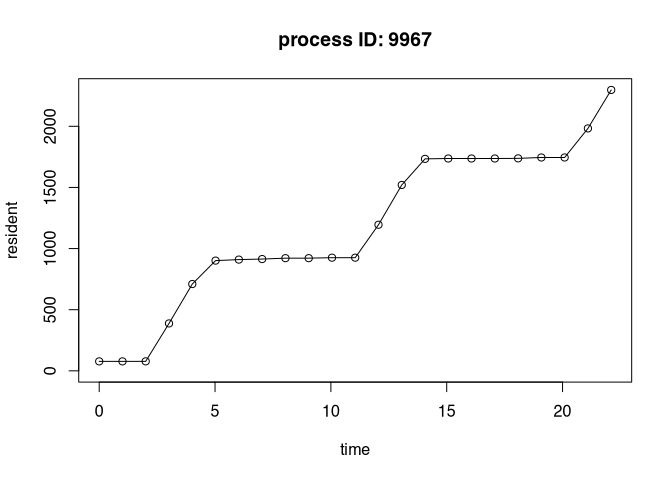
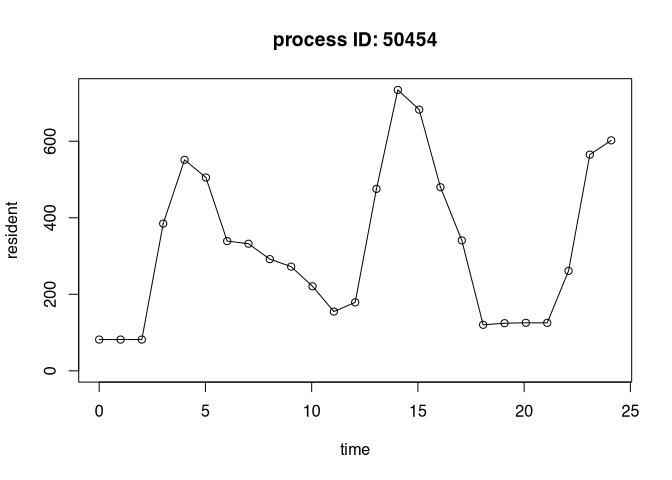
suppress CRAN url check

diff --git a/README.md b/README.md
@@ -103,31 +103,33 @@ When we read in the log file, we see messages from both R and the
 
 ``` r
 writeLines(readLines(log_file))
-#> __AUTOMETRIC__|0.0.5.9001|9967|my_worker|0|1729522150.260|1.000|0.100|77496320|420432527360|warmup|__AUTOMETRIC__
-#> __AUTOMETRIC__|0.0.5.9001|9967|my_worker|0|1729522151.265|0.000|0.000|77496320|420432527360|warmup|__AUTOMETRIC__
+#> __AUTOMETRIC__|0.1.0|50454|my_worker|0|1730312985.355|0.800|0.080|81707008|420736614400|warmup|__AUTOMETRIC__
+#> __AUTOMETRIC__|0.1.0|50454|my_worker|0|1730312986.360|0.000|0.000|81707008|420736614400|warmup|__AUTOMETRIC__
 #> [1] "You can mix printed messages with regular log data."
 #> [1] "Defining a function that guzzles CPU power."
-#> __AUTOMETRIC__|0.0.5.9001|9967|my_worker|0|1729522152.267|0.000|0.000|77676544|420441964544|large object|__AUTOMETRIC__
-#> __AUTOMETRIC__|0.0.5.9001|9967|my_worker|0|1729522153.273|98.400|9.840|387760128|421250383872|large object|__AUTOMETRIC__
-#> __AUTOMETRIC__|0.0.5.9001|9967|my_worker|0|1729522154.278|100.000|10.000|709951488|421250383872|large object|__AUTOMETRIC__
-#> __AUTOMETRIC__|0.0.5.9001|9967|my_worker|0|1729522155.283|100.000|10.000|901480448|421267161088|heavy cpu|__AUTOMETRIC__
-#> __AUTOMETRIC__|0.0.5.9001|9967|my_worker|0|1729522156.288|99.000|9.900|909869056|421267161088|heavy cpu|__AUTOMETRIC__
-#> __AUTOMETRIC__|0.0.5.9001|9967|my_worker|0|1729522157.293|100.000|10.000|914243584|421267161088|heavy cpu|__AUTOMETRIC__
-#> __AUTOMETRIC__|0.0.5.9001|9967|my_worker|0|1729522158.299|99.400|9.940|921550848|421267161088|heavy cpu|__AUTOMETRIC__
-#> __AUTOMETRIC__|0.0.5.9001|9967|my_worker|0|1729522159.304|100.000|10.000|921550848|421267161088|heavy cpu|__AUTOMETRIC__
-#> __AUTOMETRIC__|0.0.5.9001|9967|my_worker|0|1729522160.309|98.800|9.880|925564928|421267161088|heavy cpu|__AUTOMETRIC__
-#> __AUTOMETRIC__|0.0.5.9001|9967|my_worker|0|1729522161.310|100.000|10.000|925597696|421267161088|heavy cpu|__AUTOMETRIC__
-#> __AUTOMETRIC__|0.0.5.9001|9967|my_worker|0|1729522162.315|100.000|10.000|1194868736|422067175424|another object|__AUTOMETRIC__
-#> __AUTOMETRIC__|0.0.5.9001|9967|my_worker|0|1729522163.320|100.000|10.000|1520173056|422067175424|another object|__AUTOMETRIC__
-#> __AUTOMETRIC__|0.0.5.9001|9967|my_worker|0|1729522164.325|99.200|9.920|1733591040|422067175424|more cpu|__AUTOMETRIC__
-#> __AUTOMETRIC__|0.0.5.9001|9967|my_worker|0|1729522165.326|99.500|9.950|1736572928|422067175424|more cpu|__AUTOMETRIC__
-#> __AUTOMETRIC__|0.0.5.9001|9967|my_worker|0|1729522166.331|98.900|9.890|1736572928|422067175424|more cpu|__AUTOMETRIC__
-#> __AUTOMETRIC__|0.0.5.9001|9967|my_worker|0|1729522167.337|99.100|9.910|1736589312|422067175424|more cpu|__AUTOMETRIC__
-#> __AUTOMETRIC__|0.0.5.9001|9967|my_worker|0|1729522168.342|100.000|10.000|1737736192|422075564032|more cpu|__AUTOMETRIC__
-#> __AUTOMETRIC__|0.0.5.9001|9967|my_worker|0|1729522169.345|99.000|9.900|1744994304|422075564032|more cpu|__AUTOMETRIC__
-#> __AUTOMETRIC__|0.0.5.9001|9967|my_worker|0|1729522170.350|98.800|9.880|1744994304|422075564032|more cpu|__AUTOMETRIC__
-#> __AUTOMETRIC__|0.0.5.9001|9967|my_worker|0|1729522171.355|99.600|9.960|1982660608|422875578368|third object|__AUTOMETRIC__
-#> __AUTOMETRIC__|0.0.5.9001|9967|my_worker|0|1729522172.360|98.300|9.830|2297184256|422875578368|third object|__AUTOMETRIC__
+#> __AUTOMETRIC__|0.1.0|50454|my_worker|0|1730312987.361|0.000|0.000|81788928|420745003008|large object|__AUTOMETRIC__
+#> __AUTOMETRIC__|0.1.0|50454|my_worker|0|1730312988.367|98.200|9.820|384761856|421545033728|large object|__AUTOMETRIC__
+#> __AUTOMETRIC__|0.1.0|50454|my_worker|0|1730312989.372|99.300|9.930|551337984|421545033728|large object|__AUTOMETRIC__
+#> __AUTOMETRIC__|0.1.0|50454|my_worker|0|1730312990.377|99.100|9.910|505069568|421553422336|heavy cpu|__AUTOMETRIC__
+#> __AUTOMETRIC__|0.1.0|50454|my_worker|0|1730312991.378|100.000|10.000|339132416|421561810944|heavy cpu|__AUTOMETRIC__
+#> __AUTOMETRIC__|0.1.0|50454|my_worker|0|1730312992.380|99.300|9.930|332136448|421561810944|heavy cpu|__AUTOMETRIC__
+#> __AUTOMETRIC__|0.1.0|50454|my_worker|0|1730312993.385|100.000|10.000|291848192|421561810944|heavy cpu|__AUTOMETRIC__
+#> __AUTOMETRIC__|0.1.0|50454|my_worker|0|1730312994.390|100.000|10.000|272302080|421561810944|heavy cpu|__AUTOMETRIC__
+#> __AUTOMETRIC__|0.1.0|50454|my_worker|0|1730312995.395|100.000|10.000|221003776|421561810944|heavy cpu|__AUTOMETRIC__
+#> __AUTOMETRIC__|0.1.0|50454|my_worker|0|1730312996.400|100.000|10.000|154877952|421561810944|heavy cpu|__AUTOMETRIC__
+#> __AUTOMETRIC__|0.1.0|50454|my_worker|0|1730312997.403|99.200|9.920|178995200|422361825280|another object|__AUTOMETRIC__
+#> __AUTOMETRIC__|0.1.0|50454|my_worker|0|1730312998.405|100.000|10.000|475480064|422361825280|another object|__AUTOMETRIC__
+#> __AUTOMETRIC__|0.1.0|50454|my_worker|0|1730312999.410|99.500|9.950|733970432|422361825280|another object|__AUTOMETRIC__
+#> __AUTOMETRIC__|0.1.0|50454|my_worker|0|1730313000.415|98.000|9.800|682590208|422361825280|more cpu|__AUTOMETRIC__
+#> __AUTOMETRIC__|0.1.0|50454|my_worker|0|1730313001.416|100.000|10.000|479789056|422361825280|more cpu|__AUTOMETRIC__
+#> __AUTOMETRIC__|0.1.0|50454|my_worker|0|1730313002.421|99.600|9.960|340885504|422361825280|more cpu|__AUTOMETRIC__
+#> __AUTOMETRIC__|0.1.0|50454|my_worker|0|1730313003.426|100.000|10.000|120291328|422361825280|more cpu|__AUTOMETRIC__
+#> __AUTOMETRIC__|0.1.0|50454|my_worker|0|1730313004.432|99.700|9.970|124502016|422361825280|more cpu|__AUTOMETRIC__
+#> __AUTOMETRIC__|0.1.0|50454|my_worker|0|1730313005.437|98.200|9.820|125583360|422361825280|more cpu|__AUTOMETRIC__
+#> __AUTOMETRIC__|0.1.0|50454|my_worker|0|1730313006.442|99.700|9.970|125386752|422361825280|more cpu|__AUTOMETRIC__
+#> __AUTOMETRIC__|0.1.0|50454|my_worker|0|1730313007.444|98.200|9.820|261177344|423161839616|third object|__AUTOMETRIC__
+#> __AUTOMETRIC__|0.1.0|50454|my_worker|0|1730313008.447|99.500|9.950|564985856|423161839616|third object|__AUTOMETRIC__
+#> __AUTOMETRIC__|0.1.0|50454|my_worker|0|1730313009.452|100.000|10.000|602243072|423161839616|third object|__AUTOMETRIC__
 ```
 
 `autometric` knows how to read its log entries even if the log file has
@@ -139,54 +141,58 @@ library(autometric)
 log_data <- log_read(log_file)
 
 log_data
-#>       version          phase  pid      name status   time  core   cpu
-#> 1  0.0.5.9001         warmup 9967 my_worker      0  0.000   1.0  0.10
-#> 2  0.0.5.9001         warmup 9967 my_worker      0  1.005   0.0  0.00
-#> 3  0.0.5.9001   large object 9967 my_worker      0  2.007   0.0  0.00
-#> 4  0.0.5.9001   large object 9967 my_worker      0  3.013  98.4  9.84
-#> 5  0.0.5.9001   large object 9967 my_worker      0  4.018 100.0 10.00
-#> 6  0.0.5.9001      heavy cpu 9967 my_worker      0  5.023 100.0 10.00
-#> 7  0.0.5.9001      heavy cpu 9967 my_worker      0  6.028  99.0  9.90
-#> 8  0.0.5.9001      heavy cpu 9967 my_worker      0  7.033 100.0 10.00
-#> 9  0.0.5.9001      heavy cpu 9967 my_worker      0  8.039  99.4  9.94
-#> 10 0.0.5.9001      heavy cpu 9967 my_worker      0  9.044 100.0 10.00
-#> 11 0.0.5.9001      heavy cpu 9967 my_worker      0 10.049  98.8  9.88
-#> 12 0.0.5.9001      heavy cpu 9967 my_worker      0 11.050 100.0 10.00
-#> 13 0.0.5.9001 another object 9967 my_worker      0 12.055 100.0 10.00
-#> 14 0.0.5.9001 another object 9967 my_worker      0 13.060 100.0 10.00
-#> 15 0.0.5.9001       more cpu 9967 my_worker      0 14.065  99.2  9.92
-#> 16 0.0.5.9001       more cpu 9967 my_worker      0 15.066  99.5  9.95
-#> 17 0.0.5.9001       more cpu 9967 my_worker      0 16.071  98.9  9.89
-#> 18 0.0.5.9001       more cpu 9967 my_worker      0 17.077  99.1  9.91
-#> 19 0.0.5.9001       more cpu 9967 my_worker      0 18.082 100.0 10.00
-#> 20 0.0.5.9001       more cpu 9967 my_worker      0 19.085  99.0  9.90
-#> 21 0.0.5.9001       more cpu 9967 my_worker      0 20.090  98.8  9.88
-#> 22 0.0.5.9001   third object 9967 my_worker      0 21.095  99.6  9.96
-#> 23 0.0.5.9001   third object 9967 my_worker      0 22.100  98.3  9.83
-#>      resident  virtual
-#> 1    77.49632 420432.5
-#> 2    77.49632 420432.5
-#> 3    77.67654 420442.0
-#> 4   387.76013 421250.4
-#> 5   709.95149 421250.4
-#> 6   901.48045 421267.2
-#> 7   909.86906 421267.2
-#> 8   914.24358 421267.2
-#> 9   921.55085 421267.2
-#> 10  921.55085 421267.2
-#> 11  925.56493 421267.2
-#> 12  925.59770 421267.2
-#> 13 1194.86874 422067.2
-#> 14 1520.17306 422067.2
-#> 15 1733.59104 422067.2
-#> 16 1736.57293 422067.2
-#> 17 1736.57293 422067.2
-#> 18 1736.58931 422067.2
-#> 19 1737.73619 422075.6
-#> 20 1744.99430 422075.6
-#> 21 1744.99430 422075.6
-#> 22 1982.66061 422875.6
-#> 23 2297.18426 422875.6
+#>    version          phase   pid      name status   time  core   cpu  resident
+#> 1    0.1.0         warmup 50454 my_worker      0  0.000   0.8  0.08  81.70701
+#> 2    0.1.0         warmup 50454 my_worker      0  1.005   0.0  0.00  81.70701
+#> 3    0.1.0   large object 50454 my_worker      0  2.006   0.0  0.00  81.78893
+#> 4    0.1.0   large object 50454 my_worker      0  3.012  98.2  9.82 384.76186
+#> 5    0.1.0   large object 50454 my_worker      0  4.017  99.3  9.93 551.33798
+#> 6    0.1.0      heavy cpu 50454 my_worker      0  5.022  99.1  9.91 505.06957
+#> 7    0.1.0      heavy cpu 50454 my_worker      0  6.023 100.0 10.00 339.13242
+#> 8    0.1.0      heavy cpu 50454 my_worker      0  7.025  99.3  9.93 332.13645
+#> 9    0.1.0      heavy cpu 50454 my_worker      0  8.030 100.0 10.00 291.84819
+#> 10   0.1.0      heavy cpu 50454 my_worker      0  9.035 100.0 10.00 272.30208
+#> 11   0.1.0      heavy cpu 50454 my_worker      0 10.040 100.0 10.00 221.00378
+#> 12   0.1.0      heavy cpu 50454 my_worker      0 11.045 100.0 10.00 154.87795
+#> 13   0.1.0 another object 50454 my_worker      0 12.048  99.2  9.92 178.99520
+#> 14   0.1.0 another object 50454 my_worker      0 13.050 100.0 10.00 475.48006
+#> 15   0.1.0 another object 50454 my_worker      0 14.055  99.5  9.95 733.97043
+#> 16   0.1.0       more cpu 50454 my_worker      0 15.060  98.0  9.80 682.59021
+#> 17   0.1.0       more cpu 50454 my_worker      0 16.061 100.0 10.00 479.78906
+#> 18   0.1.0       more cpu 50454 my_worker      0 17.066  99.6  9.96 340.88550
+#> 19   0.1.0       more cpu 50454 my_worker      0 18.071 100.0 10.00 120.29133
+#> 20   0.1.0       more cpu 50454 my_worker      0 19.077  99.7  9.97 124.50202
+#> 21   0.1.0       more cpu 50454 my_worker      0 20.082  98.2  9.82 125.58336
+#> 22   0.1.0       more cpu 50454 my_worker      0 21.087  99.7  9.97 125.38675
+#> 23   0.1.0   third object 50454 my_worker      0 22.089  98.2  9.82 261.17734
+#> 24   0.1.0   third object 50454 my_worker      0 23.092  99.5  9.95 564.98586
+#> 25   0.1.0   third object 50454 my_worker      0 24.097 100.0 10.00 602.24307
+#>     virtual
+#> 1  420736.6
+#> 2  420736.6
+#> 3  420745.0
+#> 4  421545.0
+#> 5  421545.0
+#> 6  421553.4
+#> 7  421561.8
+#> 8  421561.8
+#> 9  421561.8
+#> 10 421561.8
+#> 11 421561.8
+#> 12 421561.8
+#> 13 422361.8
+#> 14 422361.8
+#> 15 422361.8
+#> 16 422361.8
+#> 17 422361.8
+#> 18 422361.8
+#> 19 422361.8
+#> 20 422361.8
+#> 21 422361.8
+#> 22 422361.8
+#> 23 423161.8
+#> 24 423161.8
+#> 25 423161.8
 ```
 
 `autometric` also supports simple visualizations plot performance
@@ -225,10 +231,10 @@ license is available at
 
 ## Code of Conduct
 
-Please note that the `autometric` project is released with a
-[Contributor Code of
-Conduct](https://contributor-covenant.org/version/2/1/CODE_OF_CONDUCT.html).
-By contributing to this project, you agree to abide by its terms.
+Please note that the `autometric` project is released with a Contributor
+Code of Conduct:
+`https://contributor-covenant.org/version/2/1/CODE_OF_CONDUCT.html`. By
+contributing to this project, you agree to abide by its terms.
 
 [^1]: Logging to standard output is useful on clusters like SLURM where
     workers already redirect standard output to log files, or on the
